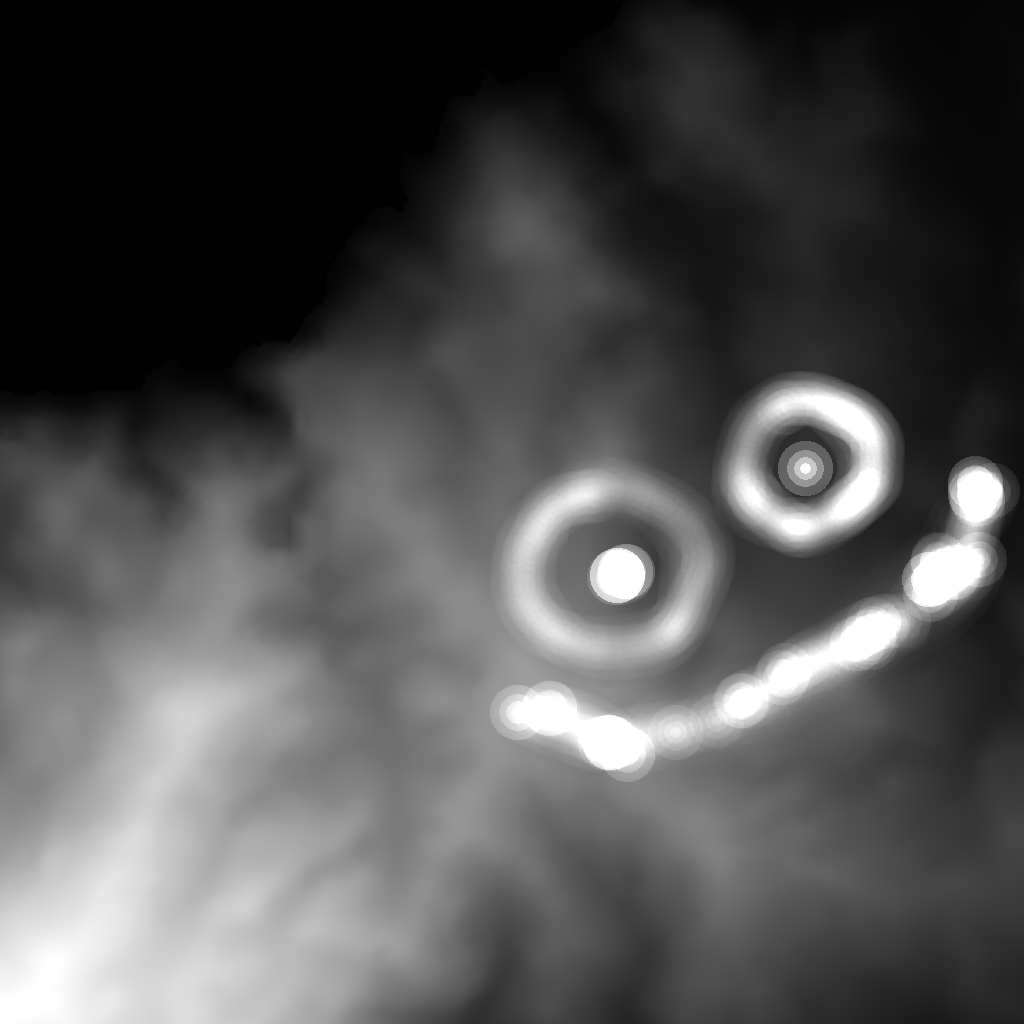
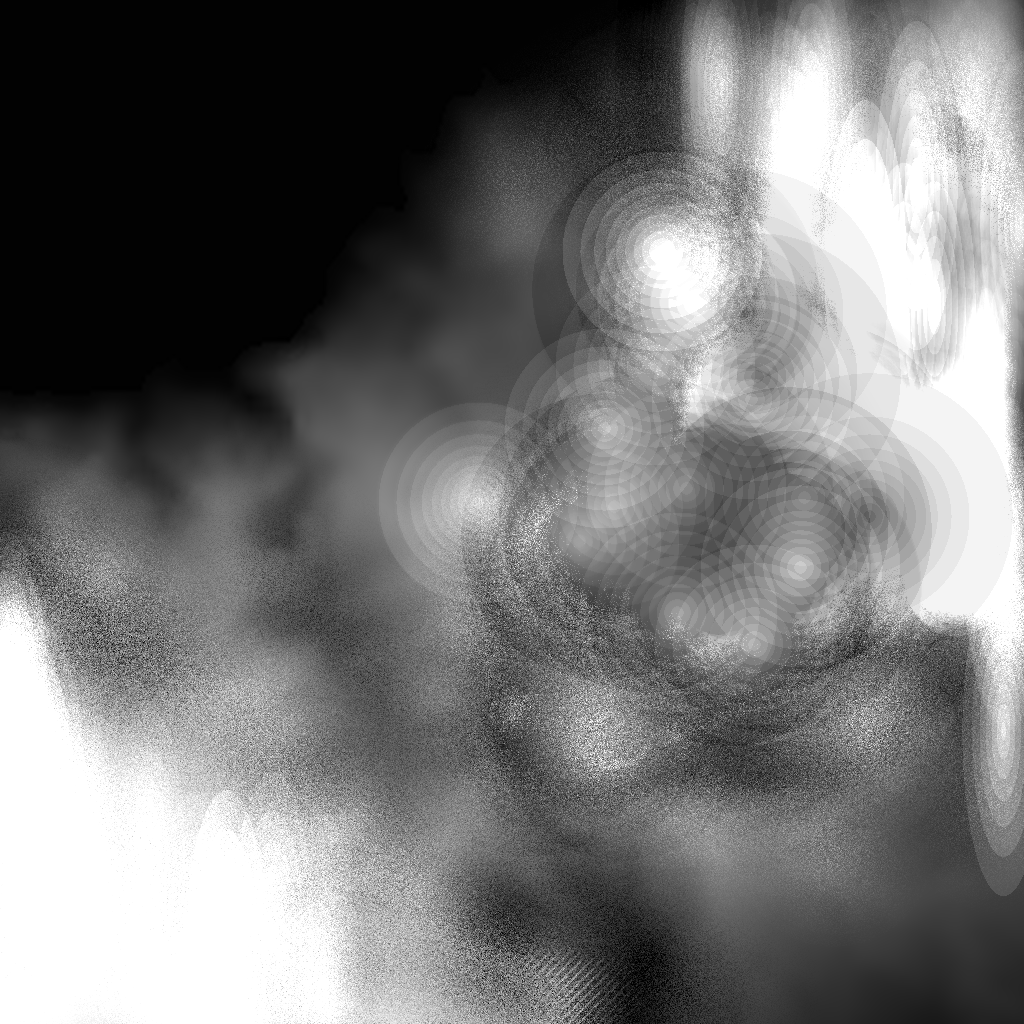
title card background

diff --git a/src/scenes/TitleCardScene.h b/src/scenes/TitleCardScene.h
@@ -48,10 +48,16 @@ public:
             }
         );
 
-        set_background_colour(Colour::GREY);
-        
+        //set_background_colour(Colour::GREY);
+
+        /* background */
+        Panel* bg_panel = new Panel(Colour::PINK, vec2(0), vec2(SCR_WIDTH,SCR_HEIGHT));
+        bg_panel->set_anchor(UIAnchor::CENTER, vec2(0));
+        bg_panel->set_texture(new Texture("C:/Media/Projects/OpenGL/Layer_Trains/textures/title_bg.png"));
+        screen_ui->place( bg_panel );
+
         /* main menu list*/
-        menu_list = new UIList(20, Colour::DARK_GREY, 20);
+        menu_list = new UIList(20, vec4(vec3(Colour::DARK_GREY),0.3f), 20);
         menu_list->set_anchor( UIAnchor::TOP_LEFT, vec2(20,-20) );
         title_display = new UIText("Layer Trains Prototype ;)", 1.15f, Colour::WHITE);
         level_select_button = new TextButton("level select", 0.75f, Colour::WHITE, ButtonID::LEVEL_SELECT,true);
@@ -71,7 +77,7 @@ public:
         
         /* Level select right panel */
         level_select_panel = new UIList(20, Colour::DARK_GREY, 20);
-        level_select_panel->set_anchor(UIAnchor::MIDDLE_RIGHT, vec2(-250, 0));
+        level_select_panel->set_anchor(UIAnchor::MIDDLE_RIGHT, vec2(-50, 0));
         auto levels = lvl_manager->get_level_data();
         for (int i=0; i<levels.size(); i++) {
             std::string level_name = levels[i].title;

diff --git a/src/textures/Texture.h b/src/textures/Texture.h
@@ -52,6 +52,7 @@ public:
             this->width = width;
             this->height = height;
             int colour_range = nrColourChannels == 4 ? GL_RGBA : nrColourChannels == 3 ? GL_RGB : GL_RED;
+            glPixelStorei(GL_UNPACK_ALIGNMENT, 1);
             glTexImage2D(GL_TEXTURE_2D, 0, colour_range, width, height, 0, colour_range, GL_UNSIGNED_BYTE, data);
             glGenerateMipmap(GL_TEXTURE_2D);    
             stbi_image_free(data);

diff --git a/src/ui/UIObject.h b/src/ui/UIObject.h
@@ -141,6 +141,7 @@ public:
     void set_texture(Texture *tex) override { 
         active_texture = tex;
         uses_texture = true;
+        shader->use();
         shader->setTexture("image", tex); 
         render_props_changed = true; 
     }
